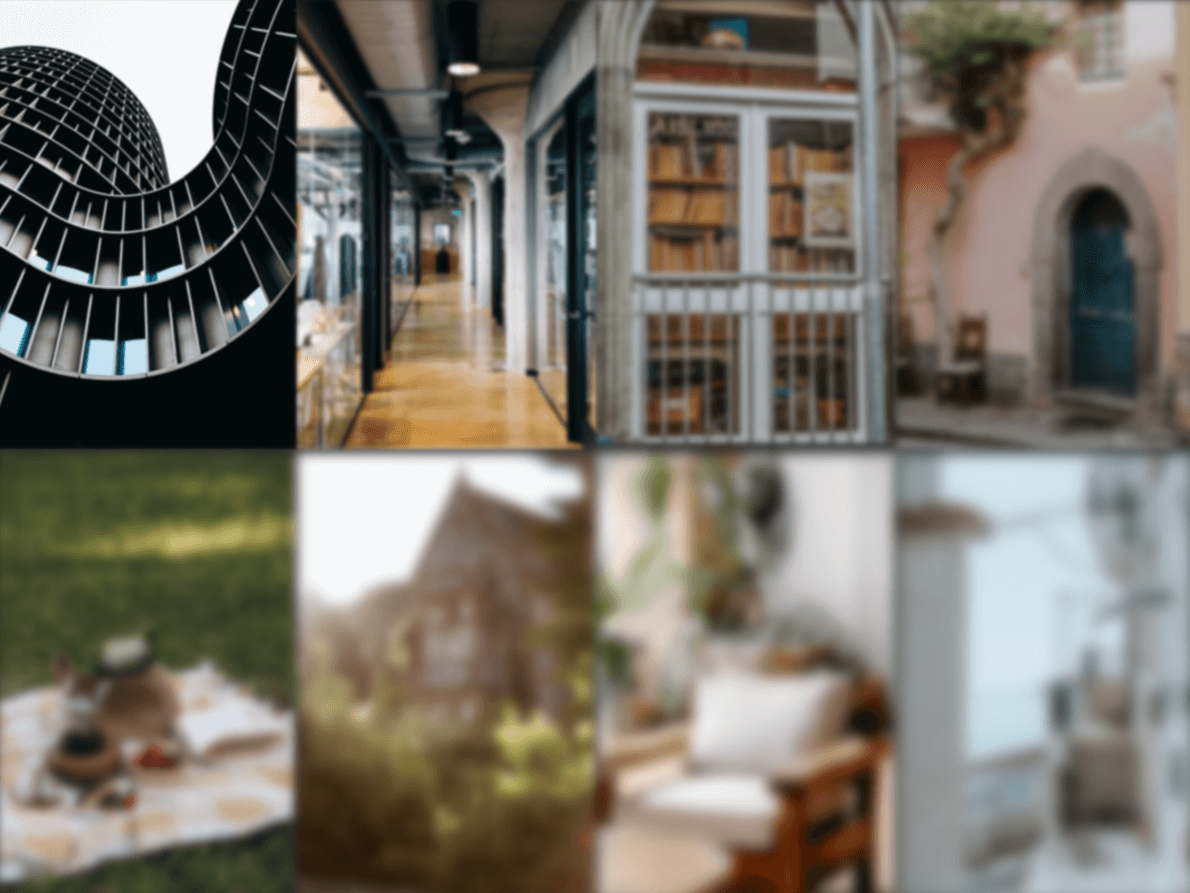
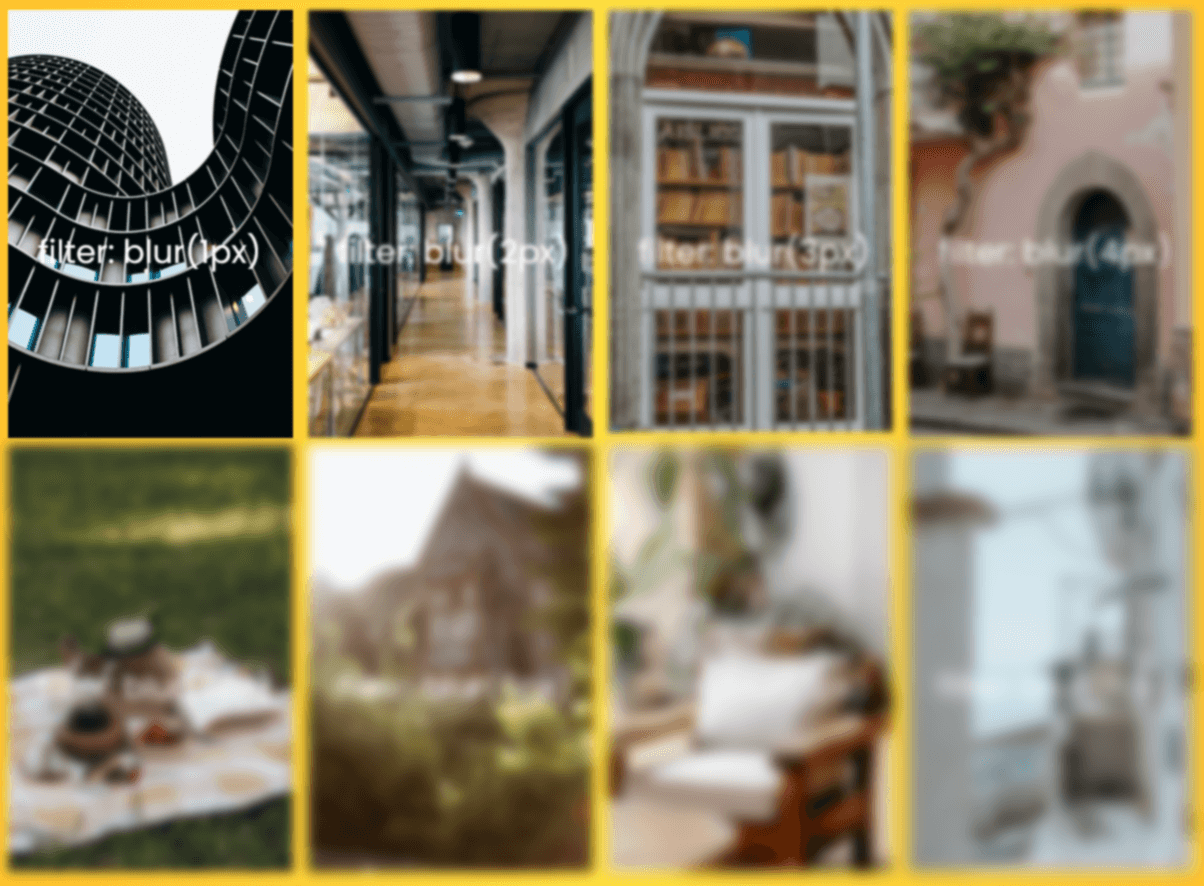
Se actualizó cursor, texto en la imagen y imagen de muestra en el readme

diff --git a/index.html b/index.html
@@ -13,35 +13,35 @@
         <ul>
             <li>
                 <img src="./img/img01.png">
-                <p></p>
+                <p>filter: blur(1px)</p>
             </li>
             <li>
                 <img src="./img/img02.png">
-                <p></p>
+                <p>filter: blur(2px)</p>
             </li>
             <li>
                 <img src="./img/img03.png">
-                <p></p>
+                <p>filter: blur(3px)</p>
             </li>
             <li>
                 <img src="./img/img04.png">
-                <p></p>
+                <p>filter: blur(4px)</p>
             </li>
             <li>
                 <img src="./img/img05.png">
-                <p></p>
+                <p>filter: blur(5px)</p>
             </li>
             <li>
                 <img src="./img/img06.png">
-                <p></p>
+                <p>filter: blur(6px)</p>
             </li>
             <li>
                 <img src="./img/img07.png">
-                <p></p>
+                <p>filter: blur(7px)</p>
             </li>
             <li>
                 <img src="./img/img08.png">
-                <p></p>
+                <p>filter: blur(8px)</p>
             </li>
         </ul>
     </main>

diff --git a/css/style.sass b/css/style.sass
@@ -1,15 +1,18 @@
+@import url('https://fonts.googleapis.com/css2?family=Poppins&display=swap')
 *
     margin: 0
     padding: 0
     box-sizing: border-box
 
 body
-    background-color: #292929
+    //background-color: #292929
+    background-image: linear-gradient(to right, #FFB220 0%, #fee140 50% , #FFB220 100%)
     color: #fff    
     display: flex
     justify-content: center
     align-items: center
     min-height: 100vh
+    font-family: 'Poppins', sans-serif
 
 main    
     max-width: 1200px
@@ -21,9 +24,10 @@ main
         justify-content: space-between
         
         li
-            list-style: none            
+            list-style: none  
+            transition: .5s                   
             img
-                width: 100%
+                width: 95%
             &:nth-child(1)
                 filter: blur(1px)
             &:nth-child(2)
@@ -42,7 +46,12 @@ main
                 filter: blur(8px)
             &:hover
                 filter: blur(0px)
-                transition: .5s
+                cursor: crosshair
+            p
+                position: absolute
+                top: 50%
+                left: 10%
+                font-size: 2em
 
 
 

diff --git a/css/style.css b/css/style.css
@@ -1,3 +1,4 @@
+@import url("https://fonts.googleapis.com/css2?family=Poppins&display=swap");
 * {
   margin: 0;
   padding: 0;
@@ -5,12 +6,13 @@
 }
 
 body {
-  background-color: #292929;
+  background-image: linear-gradient(to right, #FFB220 0%, #fee140 50%, #FFB220 100%);
   color: #fff;
   display: flex;
   justify-content: center;
   align-items: center;
   min-height: 100vh;
+  font-family: "Poppins", sans-serif;
 }
 
 main {
@@ -25,9 +27,10 @@ main ul {
 }
 main ul li {
   list-style: none;
+  transition: 0.5s;
 }
 main ul li img {
-  width: 100%;
+  width: 95%;
 }
 main ul li:nth-child(1) {
   filter: blur(1px);
@@ -55,7 +58,13 @@ main ul li:nth-child(8) {
 }
 main ul li:hover {
   filter: blur(0px);
-  transition: 0.5s;
+  cursor: crosshair;
+}
+main ul li p {
+  position: absolute;
+  top: 50%;
+  left: 10%;
+  font-size: 2em;
 }
 
 /*# sourceMappingURL=style.css.map */
